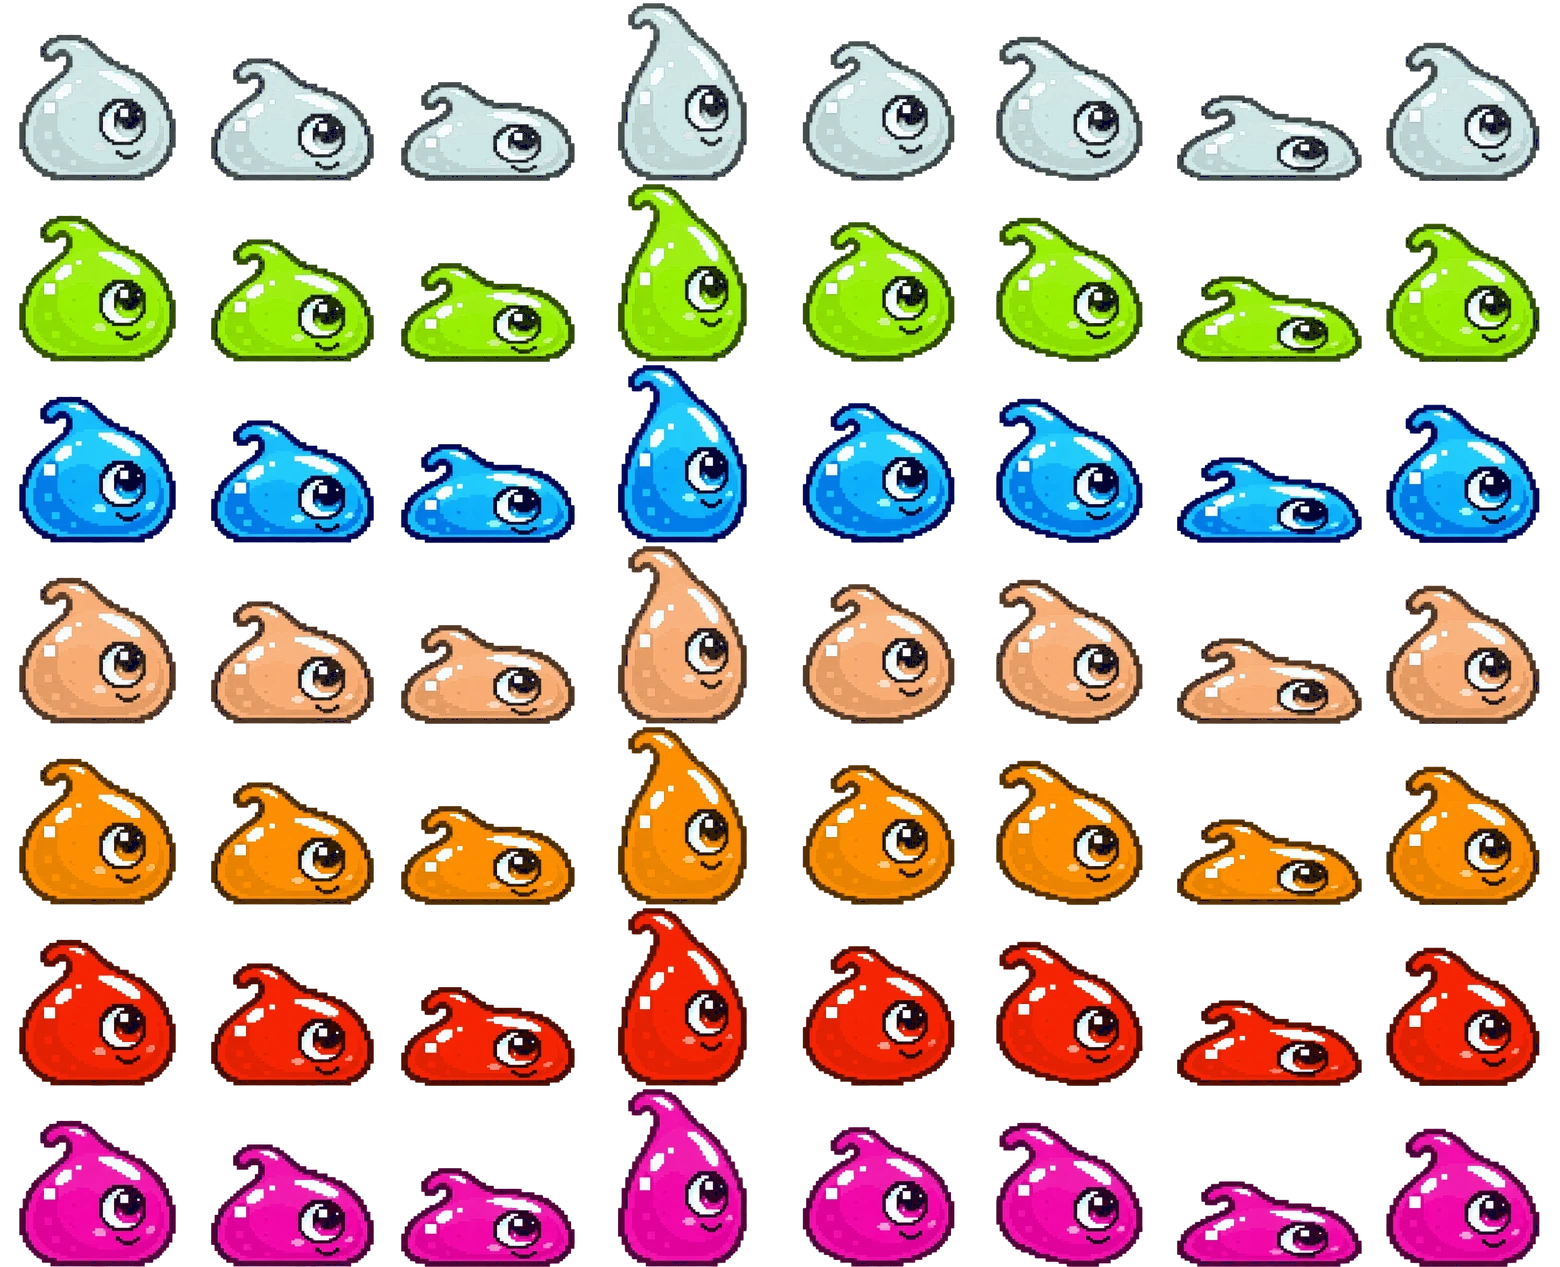
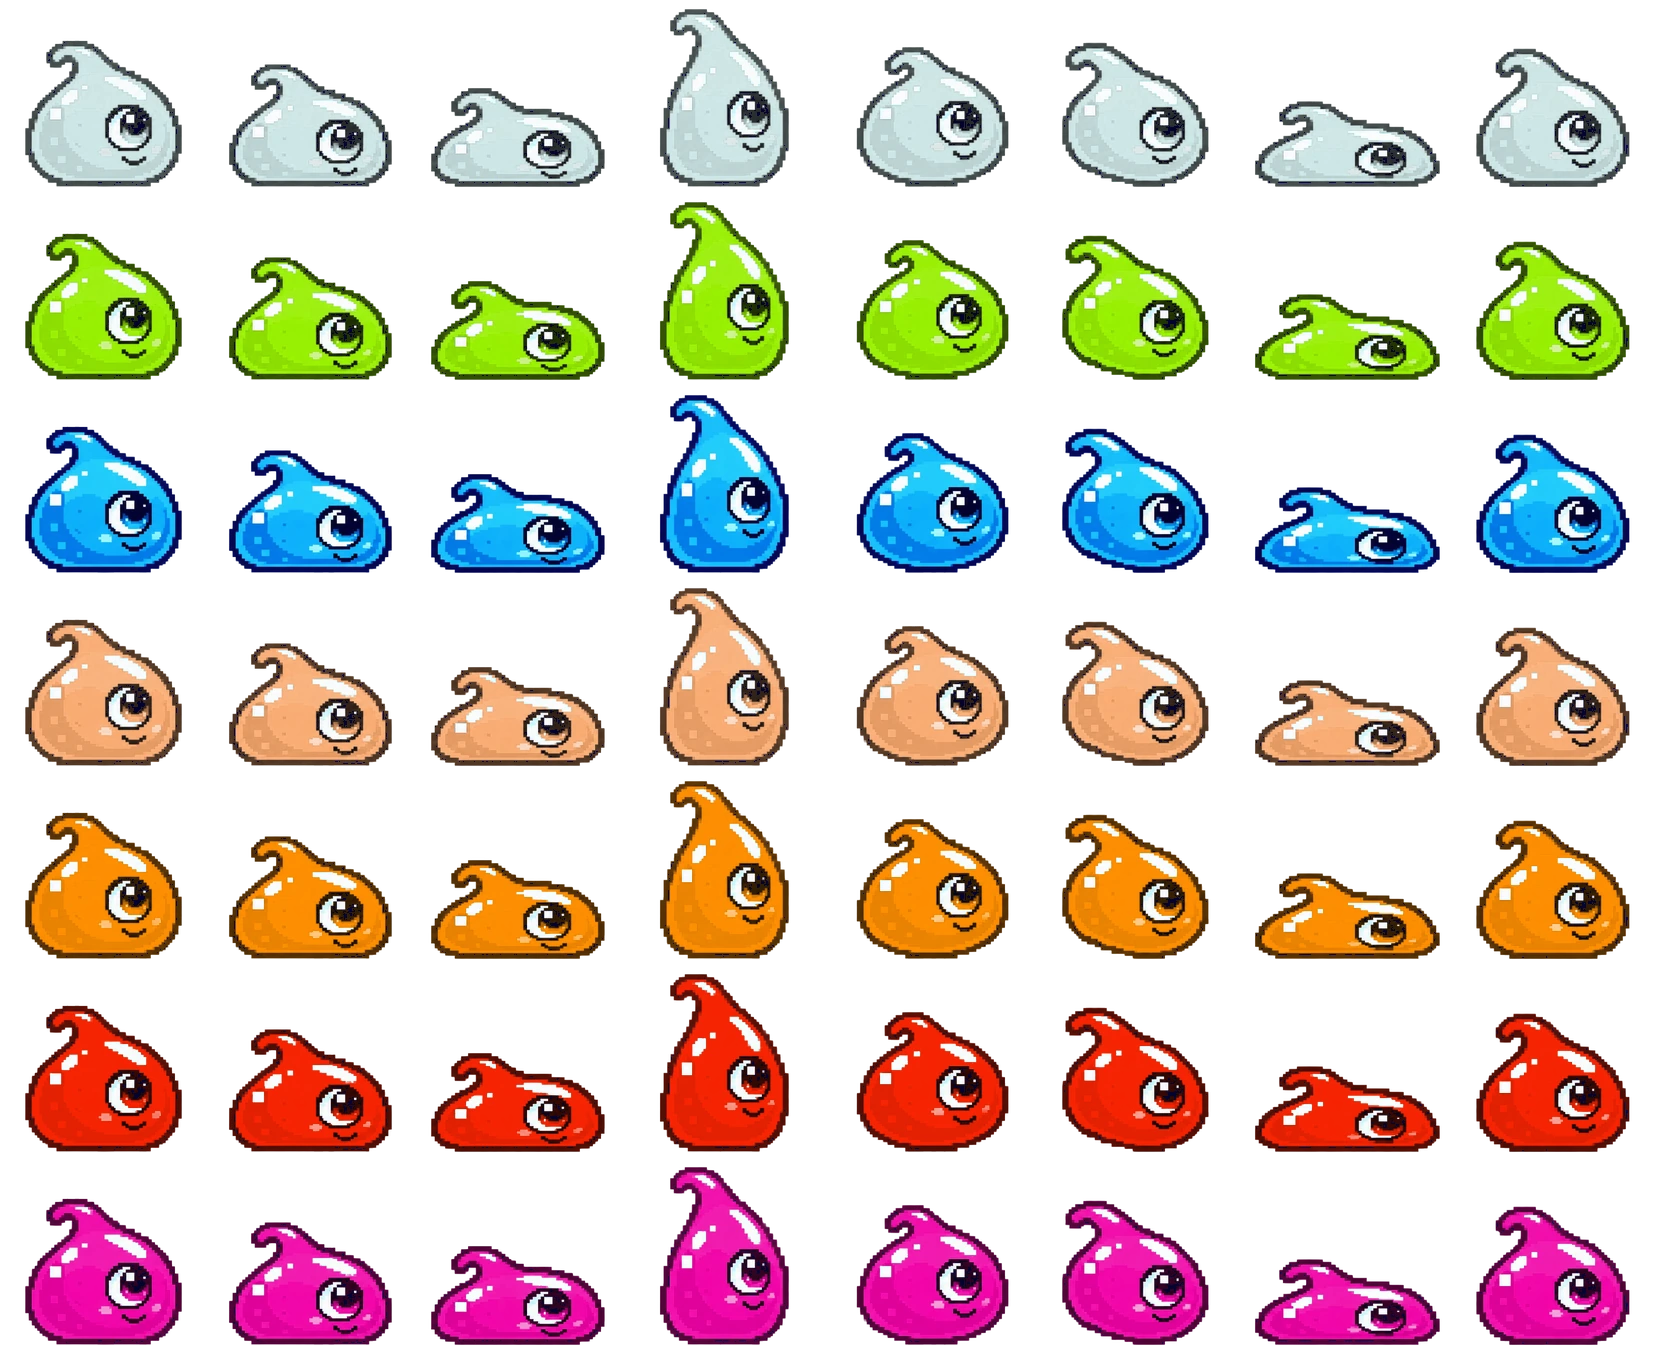
Slimes: no faint line above them (v0.61.14)
Drawing one cell of the slime sheet at a smaller size also picked up
the bottom edge of the slime in the row above, showing a faint line
over the slimes. Each frame is now scaled on its own and the sheet has
a clear 6 px gap round every cell (cells 195 x 181, set 207 x 193
apart). Rendered side by side: 7 stray pixels above the slimes with
the old sheet, 0 with the new one.

Claude-Session: https://claude.ai/code/session_017KGWh36KV1Ga2H9yBcVpJ5

Changed region(s): [[0.4, 0.0, 1.0, 1.0], [0.0, 0.0308, 0.3692, 1.0], [0.0, 0.2155, 0.0308, 0.277]]

diff --git a/index.html b/index.html
@@ -1784,14 +1784,15 @@ function slimeFrame(tint, row, f, sc, face) {
   ctx.restore();
 }
 // Karoz's water-drop slime (2026-10-08): 8 frames of a hop, in the same 7 tints as the old sheet, one tint per row.
-// Cells are 195 x 181 with the slime's feet centred at x 97.5 on the bottom edge. Frames: 0 rest, 1 dip, 2 crouch,
+// Cells are 195 x 181 with the slime's feet centred at x 97.5 on the bottom edge, set 207 x 193 apart: a clear 6 px gap
+// round every cell, so drawing one never picks up the edge of the slime next to it (Karoz saw faint lines without it). Frames: 0 rest, 1 dip, 2 crouch,
 // 3 launch (tall), 4 in the air, 5 coming down, 6 landing (flat), 7 settling back
 const HOP_IMG = new Image(); HOP_IMG.src = 'assets/slime-hop.webp';
-const HOP = { w: 195, h: 181, foot: 97.5, scale: 0.5 };
+const HOP = { w: 195, h: 181, sw: 207, sh: 193, gap: 6, foot: 97.5, scale: 0.5 };
 function hopFrame(tint, f, face, sx = 1, sy = 1) {
   ctx.save(); if (face < 0) ctx.scale(-1, 1); ctx.scale(sx, sy);
   const w = HOP.w * HOP.scale, h = HOP.h * HOP.scale;
-  ctx.drawImage(HOP_IMG, (f | 0) * HOP.w, (tint || 0) * HOP.h, HOP.w, HOP.h, -HOP.foot * HOP.scale, -h, w, h);
+  ctx.drawImage(HOP_IMG, (f | 0) * HOP.sw + HOP.gap, (tint || 0) * HOP.sh + HOP.gap, HOP.w, HOP.h, -HOP.foot * HOP.scale, -h, w, h);
   ctx.restore();
 }
 // which frame, how high off the ground and how far forward, at tick t of a hop (42 ticks) or a lunge (42 ticks)
